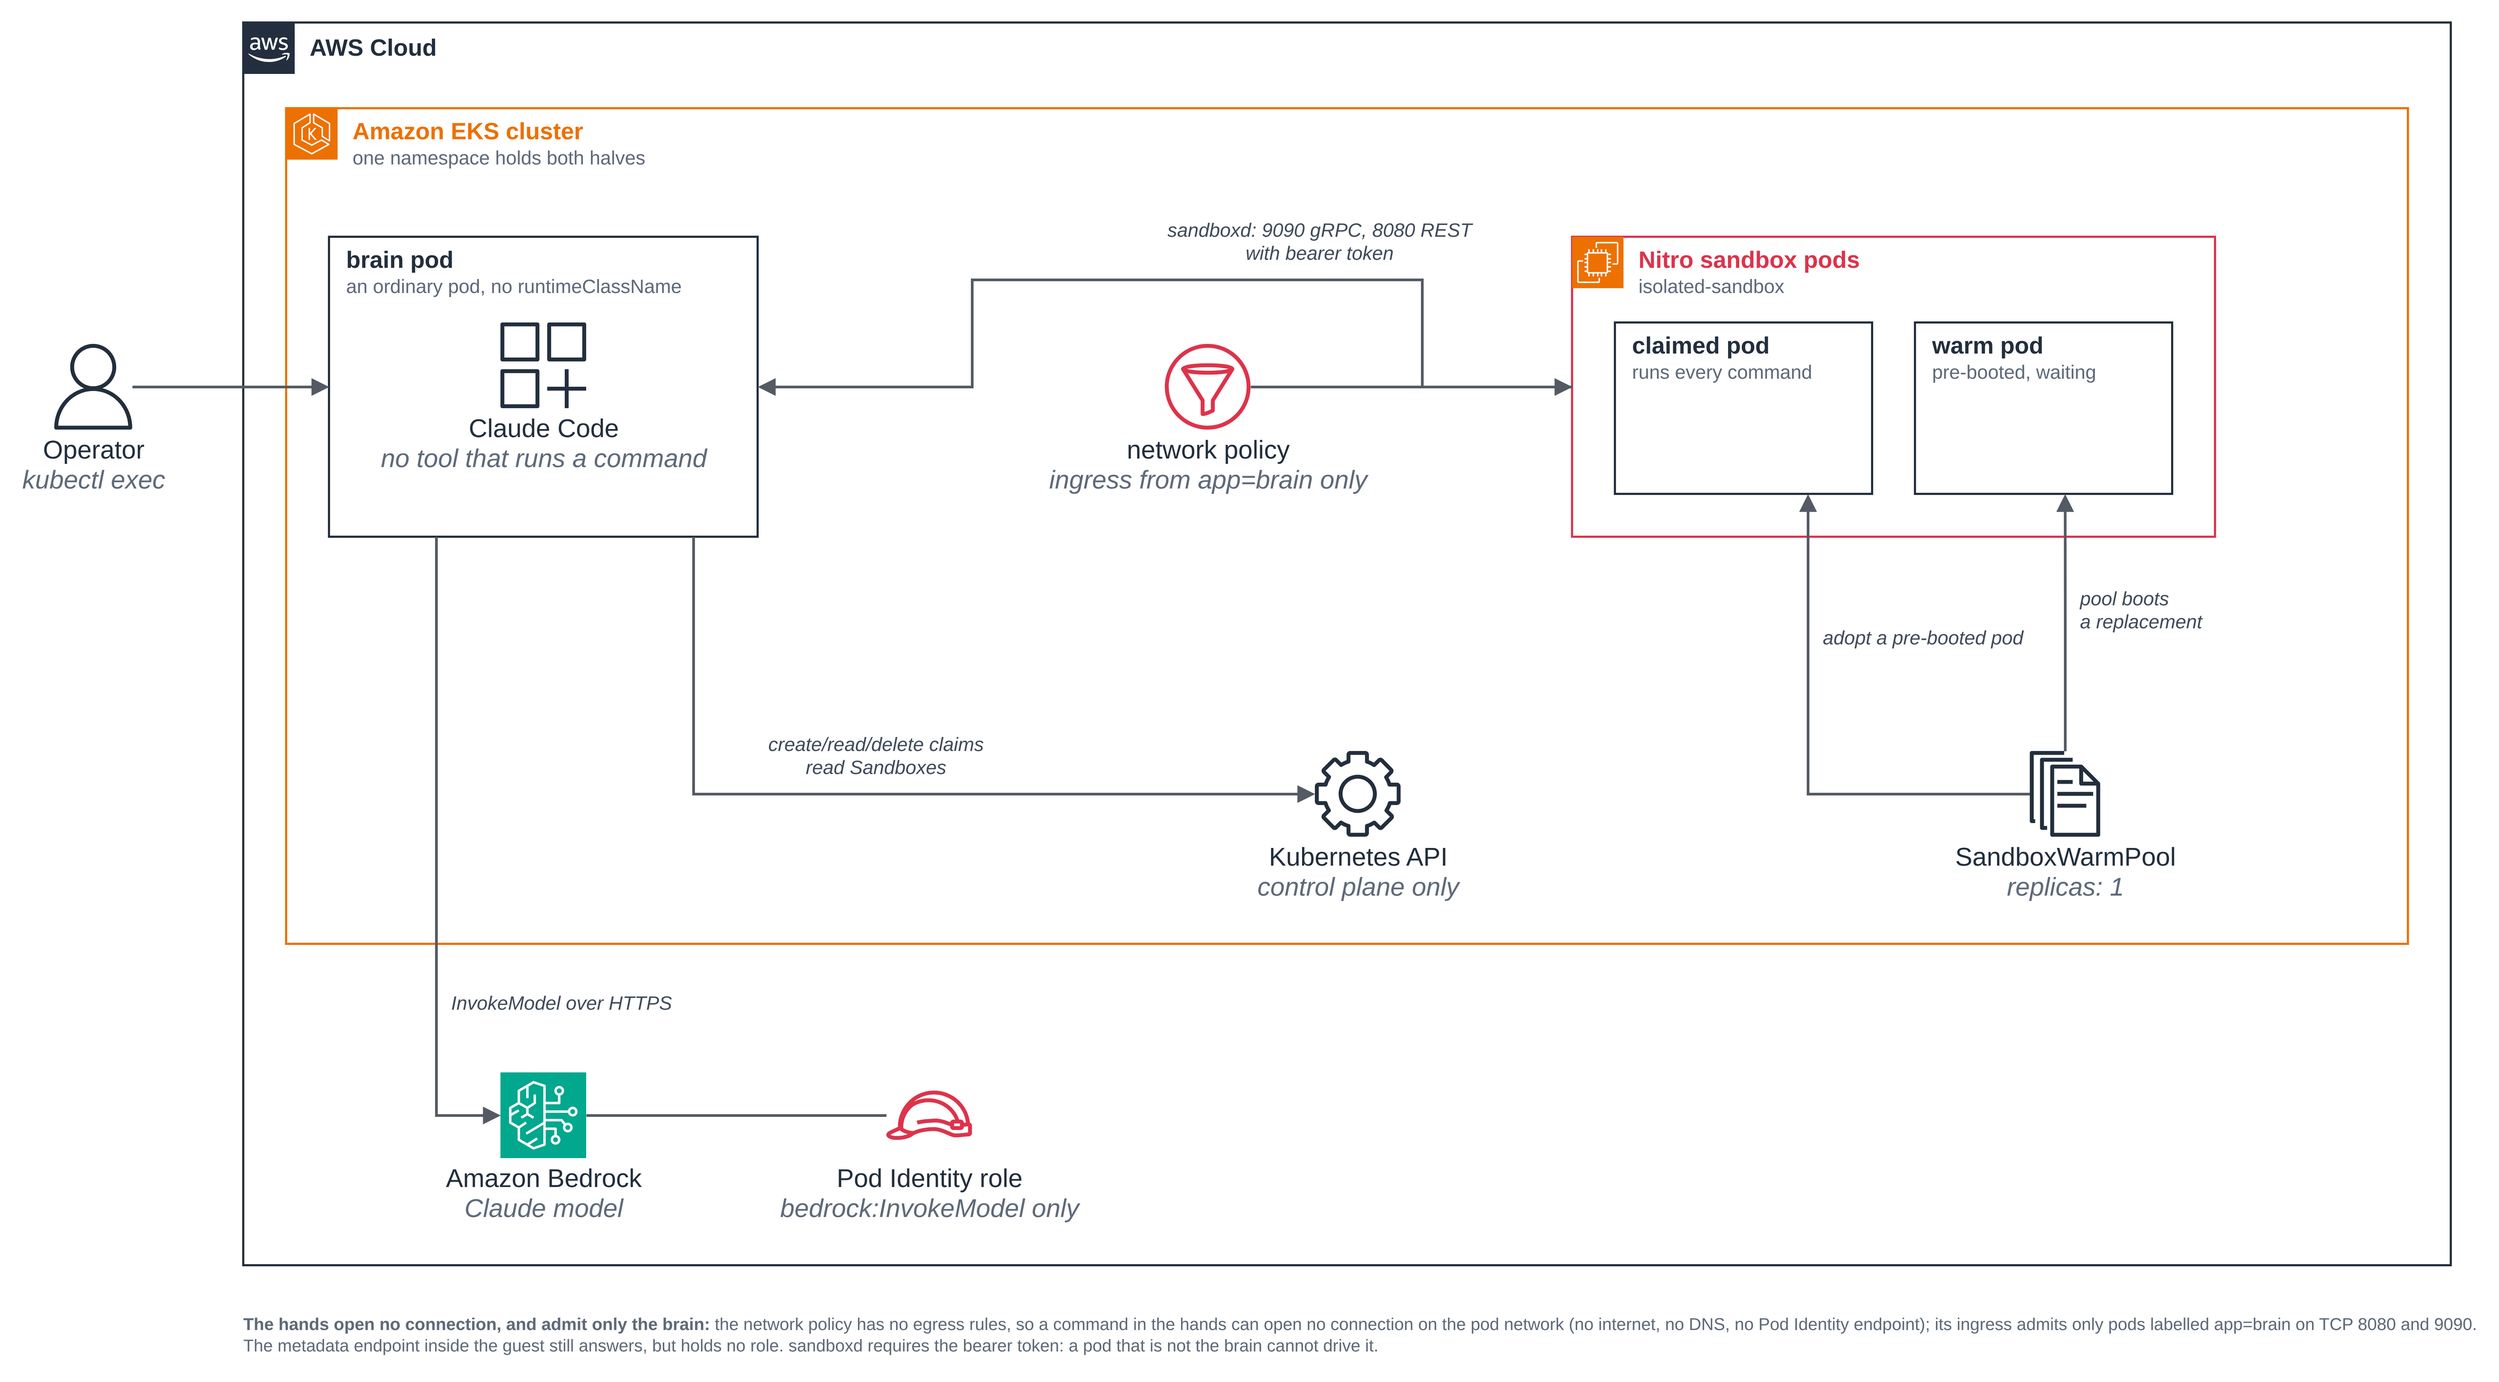
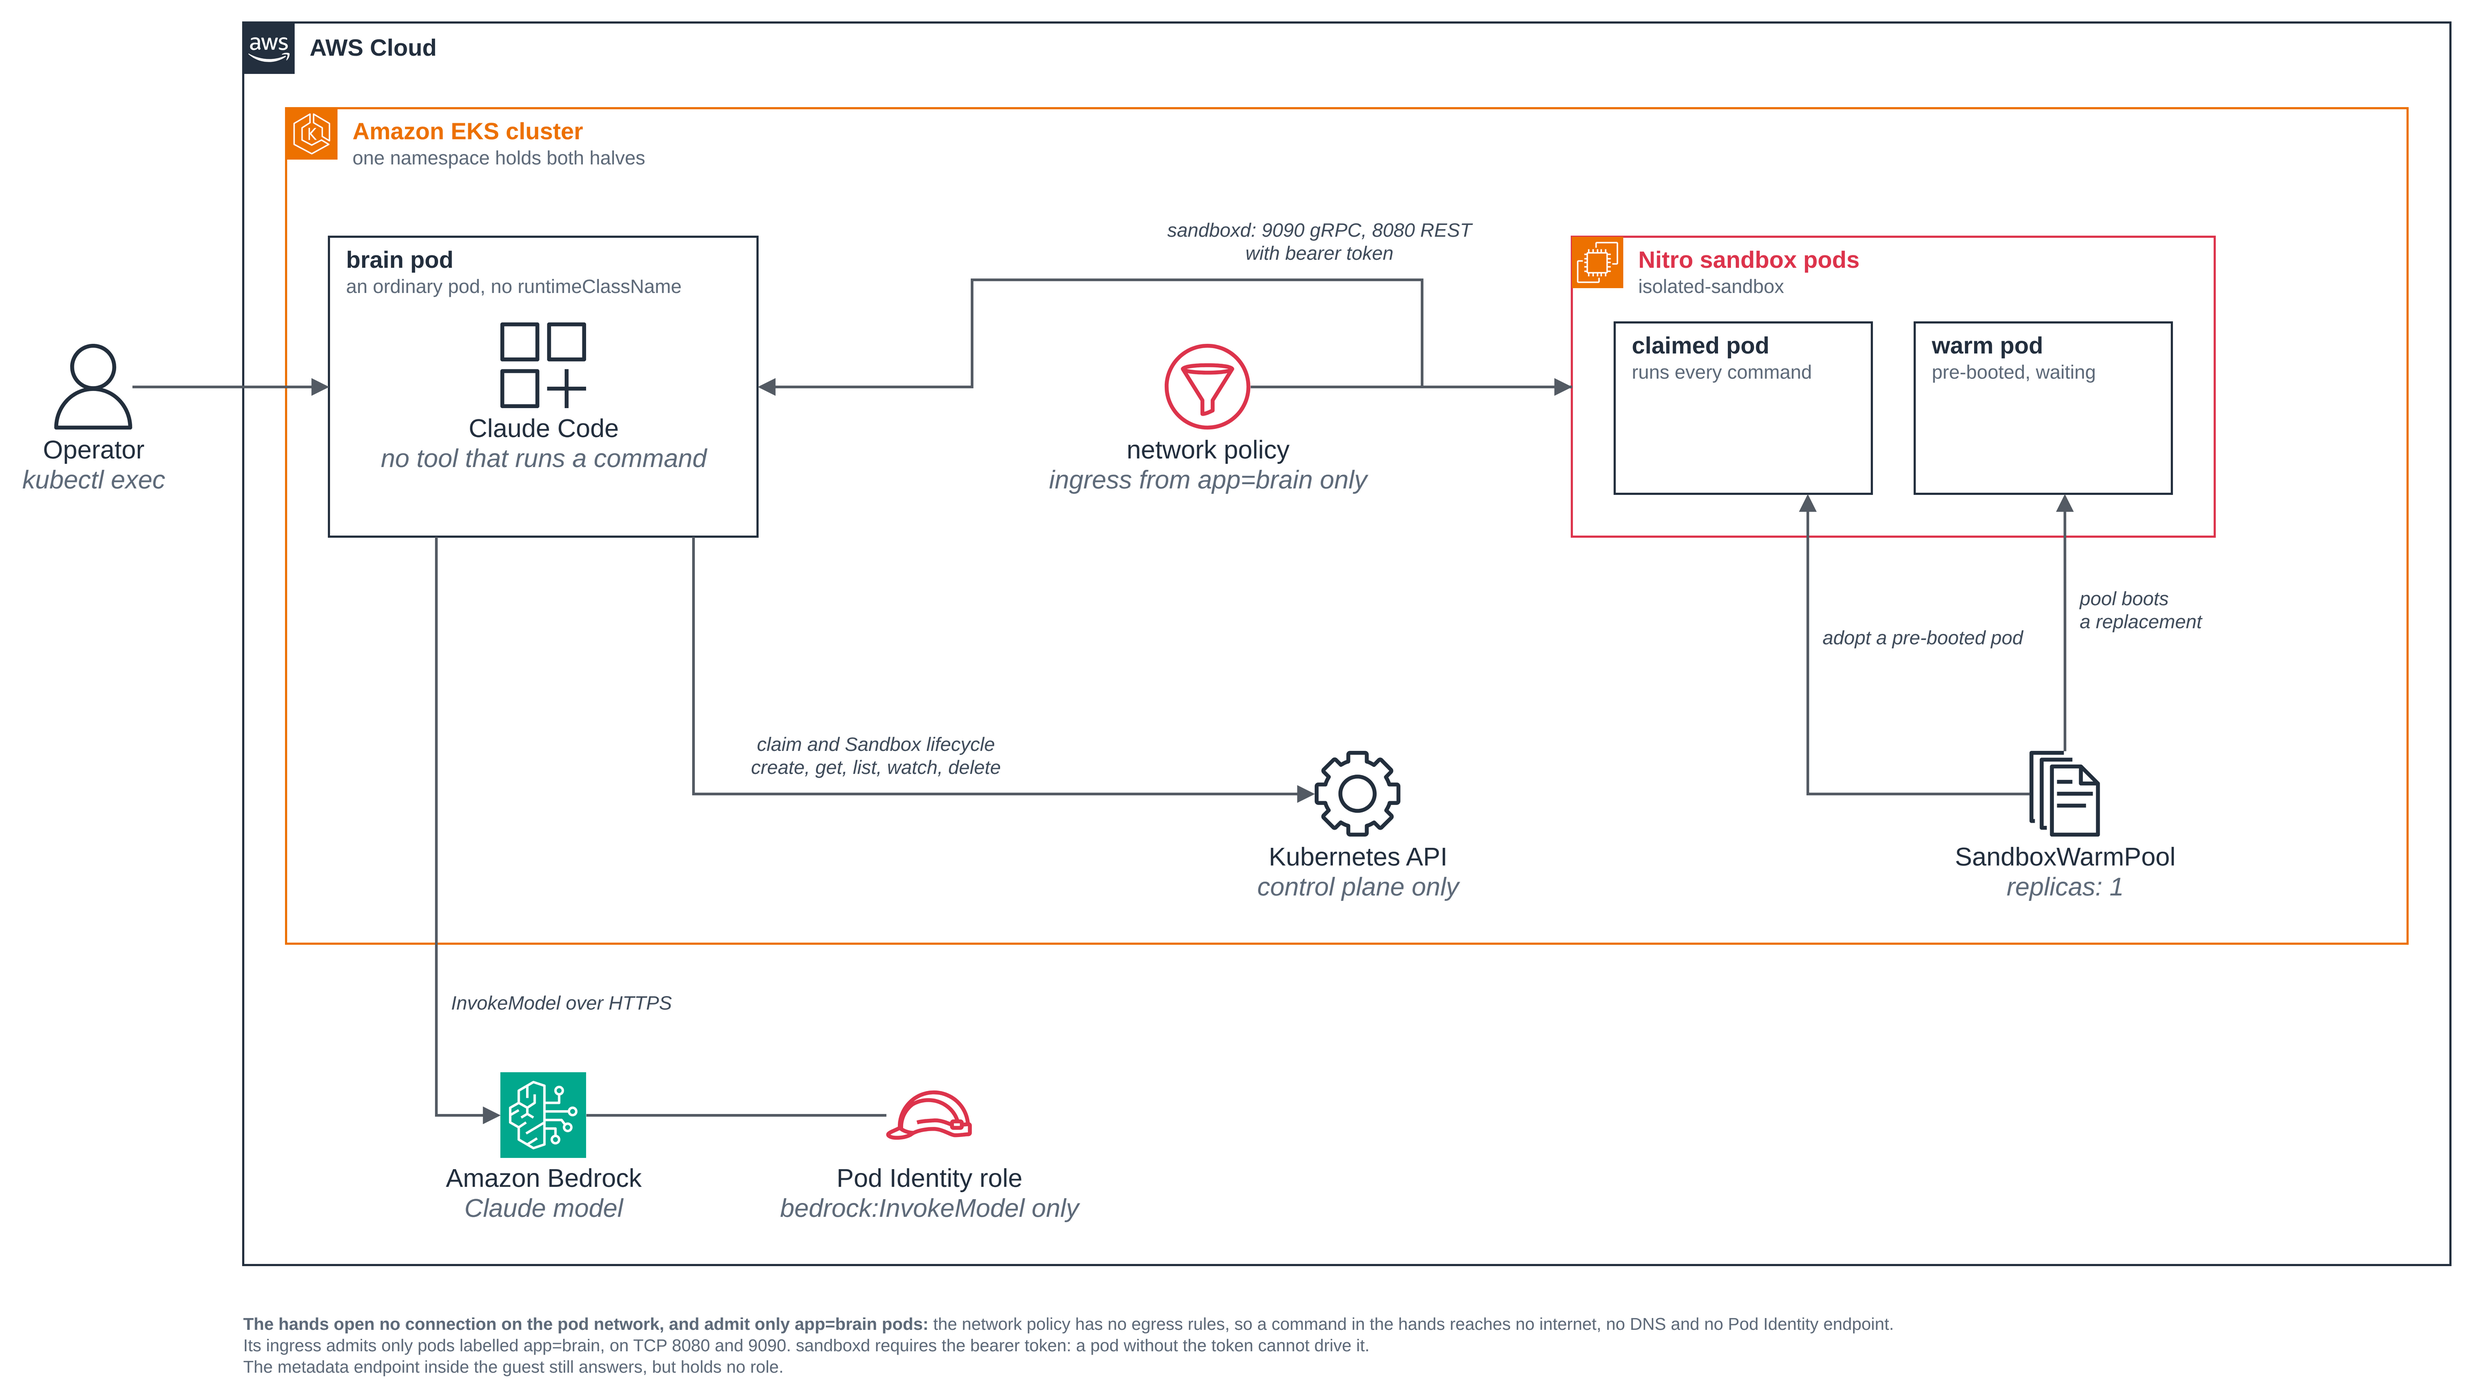
brain-and-hands: fix the round-2 review findings
Round 2 of the second review (fresh sub agent on GPT 5.6 Sol, snapshot of
51de2a6, tree fingerprint unchanged) confirmed fixes 2, 6, 7 and 8 from
c4e6050 and the false positive, and found three defects in the rest:

- The warm-pool guard checked the current template, not the pods the pool
  had already booted, never checked whether the pool existed, and matched
  the digest as a substring of every container's command, so
  --auth-token-sha256=<digest>x and a digest in another container passed.
  setup.sh now, when the pool or the template exists, requires the
  template, and every pod labelled app=hands, to carry the digest as one
  whole argument (grep -Fx) of the hands container's command, and stops
  when the pool exists without its template or when any read fails.
  Proved in the real setup.sh with stub kubectl/aws: fresh and all-match
  reach the apply; a stale pod, a suffixed digest in a pod or the
  template, no digest, a pool with no template, and an unreadable pool or
  template stop. The jsonpath container filter was checked against real
  kubectl (client-side dry run): only the hands container's command is
  returned, not another container's or an init container's.
- The walkthrough did not honor KUBE_CONTEXT, the .env block sat between
  the setup command and its output, and the step 7 block showed a
  "# 20 seconds later" line no command printed. .env is now loaded before
  setup, an alias sends every kubectl to KUBE_CONTEXT when it is set, and
[…]

diff --git a/examples/agent-sandbox/brain-and-hands/README.md b/examples/agent-sandbox/brain-and-hands/README.md
@@ -36,7 +36,7 @@ and output never travel over it.
 
 Be precise about what that buys, because it is easy to overstate. Code the model decides to
 run never runs on the half that holds the credentials, and it cannot open a connection of
-its own. It is **not** an exfiltration boundary: every command's output comes back to the
+its own on the pod network. It is **not** an exfiltration boundary: every command's output comes back to the
 brain and goes into the next model request, and nothing in this sample restricts where the
 brain can connect. *[What this sample does not limit](#what-this-sample-does-not-limit)*
 below sets out where the boundaries actually are.
@@ -64,7 +64,7 @@ sample is the worked version of it.
   Role covers claims and Sandboxes only: no `pods/exec`, no `pods/log`, no
   `pods/portforward`. Step 6 runs a command and moves a file anyway, and step 12 shows the
   API refusing the brain every one of those subresources.
-- **The hands reach only the brain, and only the brain reaches them.** The template's
+- **The hands open no connection on the pod network, and only `app=brain` pods reach them.** The template's
   network policy has no egress rules, so a command in the hands cannot open a connection on
   the pod network; its ingress admits only pods in this namespace labelled `app=brain`, on
   TCP 8080 and 9090; and sandboxd refuses any request without the bearer token the brain
@@ -81,7 +81,7 @@ sample is the worked version of it.
 
 *Figure 1: The brain and the hands, in two pods. The brain reasons and holds the credentials but has no tool that runs a command; the hands run every command; the brain reaches them through sandboxd on two ports that the hands' network policy opens only to pods labelled app=brain.*
 
-![Inside an AWS Cloud frame and an Amazon EKS cluster whose sub line reads that one namespace holds both halves, an Operator glyph labelled kubectl exec connects into the brain pod frame, marked an ordinary pod with no runtimeClassName, which holds Claude Code labelled no tool that runs a command. On the right, a red Nitro sandbox pods frame marked isolated-sandbox holds a claimed pod box labelled runs every command and a warm pod box labelled pre-booted, waiting. A two-way arrow labelled sandboxd: 9090 gRPC, 8080 REST, with bearer token runs from the brain pod to the claimed pod through a red network policy funnel labelled ingress from app=brain only. Below, an arrow from the brain pod labelled create/read/delete claims, read Sandboxes reaches a Kubernetes API gear labelled control plane only. At the right, a SandboxWarmPool document stack labelled replicas: 1 connects up into the claimed pod over an arrow labelled adopt a pre-booted pod, and up into the warm pod over an arrow labelled pool boots a replacement. Below the cluster, an arrow from the brain pod labelled InvokeModel over HTTPS reaches Amazon Bedrock, labelled Claude model, which is joined by a plain line to a red Pod Identity role glyph labelled bedrock:InvokeModel only. A note below the figure reads that the hands open no connection and admit only the brain: the network policy has no egress rules, so a command in the hands can open no connection on the pod network, with no internet, no DNS and no Pod Identity endpoint, and its ingress admits only pods labelled app=brain on TCP 8080 and 9090; that the metadata endpoint inside the guest still answers but holds no role; and that sandboxd requires the bearer token, so a pod that is not the brain cannot drive it.](images/figure-1-brain-and-hands.png)
+![Inside an AWS Cloud frame and an Amazon EKS cluster whose sub line reads that one namespace holds both halves, an Operator glyph labelled kubectl exec connects into the brain pod frame, marked an ordinary pod with no runtimeClassName, which holds Claude Code labelled no tool that runs a command. On the right, a red Nitro sandbox pods frame marked isolated-sandbox holds a claimed pod box labelled runs every command and a warm pod box labelled pre-booted, waiting. A two-way arrow labelled sandboxd: 9090 gRPC, 8080 REST, with bearer token runs from the brain pod to the claimed pod through a red network policy funnel labelled ingress from app=brain only. Below, an arrow from the brain pod labelled claim and Sandbox lifecycle, create, get, list, watch, delete, reaches a Kubernetes API gear labelled control plane only. At the right, a SandboxWarmPool document stack labelled replicas: 1 connects up into the claimed pod over an arrow labelled adopt a pre-booted pod, and up into the warm pod over an arrow labelled pool boots a replacement. Below the cluster, an arrow from the brain pod labelled InvokeModel over HTTPS reaches Amazon Bedrock, labelled Claude model, which is joined by a plain line to a red Pod Identity role glyph labelled bedrock:InvokeModel only. A note below the figure reads that the hands open no connection on the pod network and admit only pods labelled app=brain: the network policy has no egress rules, so a command in the hands can open no connection on the pod network, with no internet, no DNS and no Pod Identity endpoint, and its ingress admits only pods labelled app=brain on TCP 8080 and 9090; that the metadata endpoint inside the guest still answers but holds no role; and that sandboxd requires the bearer token, so a pod without the token cannot drive it.](images/figure-1-brain-and-hands.png)
 
 ### What this sample does not limit
 
@@ -102,7 +102,8 @@ which is enforced on the node, does not reach it. It holds no role: step 11 show
 path returning 404. It is not the same thing as "no instance metadata", and the page does not
 claim that.
 
-**The split is not an exfiltration boundary.** The hands cannot open a connection, but
+**The split is not an exfiltration boundary.** The hands cannot open a connection on the pod
+network, but
 their output is meant to reach the model: the MCP server returns it to the brain, and the
 brain puts it in the next request. So anything the hands can read, the brain can carry, and
 nothing in this sample restricts where the brain can connect. What the split does is keep
@@ -217,18 +218,14 @@ List the models your account can invoke with
 **Step 3: Stand it up.** [`scripts/setup.sh`](scripts/setup.sh) checks the shared installs
 and the enforcement setting first, so a missing prerequisite stops the run before anything is
 created, then builds and pushes the brain image, creates the brain's role, mints the sandboxd
-token, and applies the hands and the brain:
-
-```bash
-./scripts/setup.sh 2>&1 | tee setup.log
-```
-
-The commands from step 3 on use the names in `.env`, and your current kube context. Load
-the names into your shell, and point the context at the cluster `.env` names:
+token, and applies the hands and the brain. The scripts read `.env` themselves; the commands
+after setup use the same names, so load them into your shell first, and send every `kubectl`
+below to the context `.env` names (the alias does nothing when `KUBE_CONTEXT` is empty):
 
 ```bash
 set -a; . ./.env; set +a
-kubectl config current-context
+[ -n "$KUBE_CONTEXT" ] && alias kubectl="kubectl --context $KUBE_CONTEXT"
+./scripts/setup.sh 2>&1 | tee setup.log
 ```
 
 The run below used `AWS_REGION=us-east-1`, so that Region appears in its output; the
@@ -506,7 +503,7 @@ kubectl -n $NAMESPACE get sandboxclaim
 kubectl -n $NAMESPACE get sandbox \
   -o custom-columns='NAME:.metadata.name,LAUNCH-TYPE:.metadata.labels.agents\.x-k8s\.io/launch-type'
 kubectl -n $NAMESPACE get sandboxwarmpool hands-pool
-sleep 20; kubectl -n $NAMESPACE get sandboxwarmpool hands-pool
+sleep 20; echo "# 20 seconds later"; kubectl -n $NAMESPACE get sandboxwarmpool hands-pool
 ```
 
 ```text
@@ -603,7 +600,8 @@ hands-pool-mfvxq         <NODE_A>   isolated-sandbox
 The runtime class shows what was asked for rather than what ran, which is why the readings
 above come first.
 
-**Step 9: The hands open no connection, and admit only the brain.** The policy is part of the
+**Step 9: The hands open no connection on the pod network, and admit only `app=brain` pods.**
+The policy is part of the
 template in [`deploy/warm-pool.yaml`](deploy/warm-pool.yaml), and the agent-sandbox
 controller writes it as one `NetworkPolicy` for every pod made from the template:
 

diff --git a/docs/ROADMAP.md b/docs/ROADMAP.md
@@ -153,7 +153,7 @@ The [agent-sandbox](https://github.com/kubernetes-sigs/agent-sandbox) resources,
 - [warm-pool-autoscaling-keda](../examples/agent-sandbox/warm-pool-autoscaling-keda/README.md) (available now): KEDA scales a warm pool up and down with claim demand, so warm capacity tracks demand instead of a fixed count. Spec: [#31](https://github.com/aws-samples/sample-eks-nitro-sandbox/issues/31).
 - [ide](../examples/agent-sandbox/ide/README.md) (available now): VS Code in the browser on a persistent EBS workspace. Spec: [#32](https://github.com/aws-samples/sample-eks-nitro-sandbox/issues/32).
 - [argo-rollouts](../examples/agent-sandbox/argo-rollouts/README.md) (available now): rolling a `SandboxTemplate` change through a warm pool with Argo Rollouts, replacing the warm sandboxes built from the old template. Spec: [#33](https://github.com/aws-samples/sample-eks-nitro-sandbox/issues/33).
-- [brain-and-hands](../examples/agent-sandbox/brain-and-hands/README.md) (available now): the agent (the brain) runs on an ordinary pod with model access and no local shell. Each command it runs goes to a warm sandbox (the hands) that it claims from a pool through the agent-sandbox MCP server and drives through sandboxd, with a template network policy that admits only the brain and lets nothing out. Spec: [#38](https://github.com/aws-samples/sample-eks-nitro-sandbox/issues/38), updated in [#168](https://github.com/aws-samples/sample-eks-nitro-sandbox/issues/168).
+- [brain-and-hands](../examples/agent-sandbox/brain-and-hands/README.md) (available now): the agent (the brain) runs on an ordinary pod with model access and no local shell. Each command it runs goes to a warm sandbox (the hands) that it claims from a pool through the agent-sandbox MCP server and drives through sandboxd, with a template network policy that admits only pods labelled `app=brain` and allows no egress. Spec: [#38](https://github.com/aws-samples/sample-eks-nitro-sandbox/issues/38), updated in [#168](https://github.com/aws-samples/sample-eks-nitro-sandbox/issues/168).
 
 ### Storage (`storage`)
 

diff --git a/README.md b/README.md
@@ -55,7 +55,7 @@ The same procurement analyst three ways, with a second policy layer confining th
 - [Warm pool autoscaling with KEDA](examples/agent-sandbox/warm-pool-autoscaling-keda/README.md): KEDA reads a count of `SandboxClaim` objects and drives a warm pool's `spec.replicas` up and back down with it, with a no-autoscaler control that stays flat under the same demand.
 - [IDE in the browser](examples/agent-sandbox/ide/README.md): code-server (VS Code in the browser) in a sandbox on a persistent EBS workspace, reached only by `kubectl port-forward`, with its password an argon2 hash from a Kubernetes Secret.
 - [Roll out a SandboxTemplate change with Argo Rollouts](examples/agent-sandbox/argo-rollouts/README.md): patching a `SandboxTemplate` leaves the warm pool serving pods built from the old one, so a claim can adopt a stale pod; an Argo Rollouts canary step plugin patches the template and then drains and re-warms the pool.
-- [Brain and hands](examples/agent-sandbox/brain-and-hands/README.md): an agent split in two, a brain that reasons with no tool that runs a command and hands that run every command in a sandbox pod claimed from a warm pool, reached through the agent-sandbox MCP server and sandboxd on two ports that admit only the brain.
+- [Brain and hands](examples/agent-sandbox/brain-and-hands/README.md): an agent split in two, a brain that reasons with no tool that runs a command and hands that run every command in a sandbox pod claimed from a warm pool, reached through the agent-sandbox MCP server and sandboxd on two ports that admit only pods labelled `app=brain`.
 
 ## Storage
 
